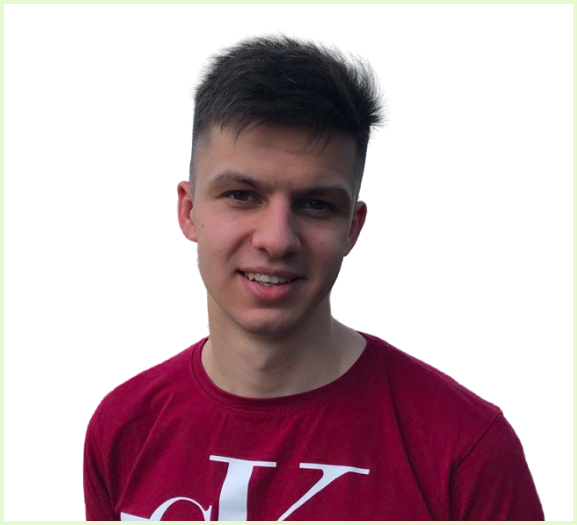
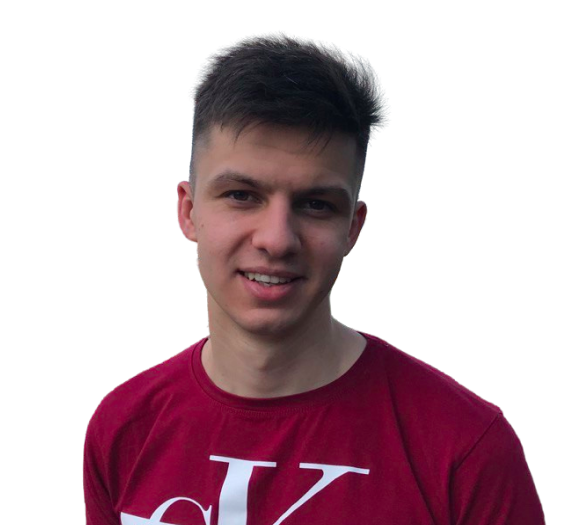
social media refs, left panel update using Grid

Changed region(s): [[0.0, 0.0, 1.0, 1.0]]

diff --git a/pages/index.tsx b/pages/index.tsx
@@ -13,7 +13,7 @@ const IndexPage: React.FC = () => {
 	React.useEffect(() => {
 		const options: TypedOptions = {
 			strings: ["HI! I'M MAXYM RYBAK"],
-			typeSpeed: 60,
+			typeSpeed: 50,
 			startDelay: 2500,
 			showCursor: false,
 		}
@@ -22,8 +22,8 @@ const IndexPage: React.FC = () => {
 		}
 		const options2: TypedOptions = {
 			strings: ['FULL-STACK WEB DEVELOPER'],
-			typeSpeed: 60,
-			startDelay: 4500,
+			typeSpeed: 50,
+			startDelay: 4000,
 			showCursor: false,
 		}
 		if (paragraph2Ref.current) {
@@ -37,20 +37,34 @@ const IndexPage: React.FC = () => {
 			<img src='/images/background.jpg' className={cl.fullScreanImg}></img>
 			<div className={cl.backdrop} />
 			<div className={cl.leftFrame}>
-				{/* <Grid container alignItems='center'> */}
-				{/* <Grid item xs={6}> */}
-				<div style={{ display: 'flex', alignItems: 'center', width: '50vw', height: '100%' }}>
-					<img src='/images/me.png' className={cl.photo}></img>
-					{/* </Grid> */}
-					{/* <Grid item sx={6}> */}
-					<div className={cl.greeting}>
-						<span ref={paragraphRef} id='typed-text'></span>
-						<p ref={paragraph2Ref} id='typed-text2'></p>
-					</div>
+				<img src='/images/chip.png' className={cl.topChip}></img>
+				<div className={cl.leftFrameContent}>
+					<Grid container style={{ paddingBottom: '3em' }}>
+						<Grid item xs={6}>
+							<img src='/images/me.png' className={cl.photo}></img>
+						</Grid>
+						<Grid item xs={2}>
+							<img src='/images/chip.png' className={cl.chip}></img>
+						</Grid>
+						<Grid item xs={4}>
+							<div className={cl.greeting}>
+								<span ref={paragraphRef} id='typed-text2'></span>
+								<p ref={paragraph2Ref} id='typed-text2'></p>
+							</div>
+						</Grid>
+					</Grid>
 				</div>
-
-				{/* </Grid> */}
-				{/* </Grid> */}
+				<div className={cl.socialLinks}>
+					<a href='https://github.com/hurubashi' target='_blank'>
+						<img src='/images/github.svg' className={cl.sociaLinksItem}></img>
+					</a>
+					<a href='https://www.facebook.com/hurubashi/' target='_blank'>
+						<img src='/images/facebook.svg' className={cl.sociaLinksItem}></img>
+					</a>
+					<a href='https://www.linkedin.com/in/maxym-rybak-ba05b7162/' target='_blank'>
+						<img src='/images/linkedin.svg' className={cl.sociaLinksItem}></img>
+					</a>
+				</div>
 			</div>
 			<div className={cl.triangle} />
 		</Layout>

diff --git a/pages/styles.tsx b/pages/styles.tsx
@@ -27,15 +27,48 @@ const styles = makeStyles((theme: Theme) =>
 			zIndex: -1,
 		},
 		greeting: {
-			color: 'white',
+			color: '#EDFFD9',
 			fontSize: '1.5em',
-			width: '10em',
-			margin: 'auto',
-			marginTop: '25vh',
+			width: '100%',
+			paddingLeft: '0.5em',
+			paddingTop: '0.5em',
 		},
 		photo: {
 			width: '100%',
 			height: 'auto',
+			border: '2px solid #EDFFD9',
+			animationName: `$appearingAnimation`,
+			animationDuration: '4s',
+			opacity: 1,
+		},
+		line: {
+			height: '15em',
+			width: '3px',
+			backgroundColor: '#E5FACF',
+			marginBottom: '3em',
+			animationName: `$appearingAnimation`,
+			animationDuration: '4s',
+			opacity: 1,
+		},
+		chip: { width: '100%', animationName: `$appearingAnimation`, animationDuration: '4s', opacity: 1 },
+		topChip: {
+			width: '5em',
+			height: '5em',
+			position: 'absolute',
+			animationName: `$appearingAnimation`,
+			animationDuration: '4s',
+			opacity: 1,
+		},
+		'@keyframes appearingAnimation': {
+			'0%': {
+				opacity: 0,
+			},
+			'50%': {
+				opacity: 0,
+			},
+			'100%': {
+				opacity: 1,
+			},
 		},
 		leftFrame: {
 			position: 'fixed',
@@ -48,6 +81,7 @@ const styles = makeStyles((theme: Theme) =>
 			animationName: `$leftFrameAnimation`,
 			animationDuration: '3s',
 		},
+		leftFrameContent: { display: 'flex', alignItems: 'center', width: '50vw', height: '100%' },
 		'@keyframes leftFrameAnimation': {
 			'0%': {
 				width: '100vw',
@@ -91,6 +125,23 @@ const styles = makeStyles((theme: Theme) =>
 			'100%': {
 				left: '40vw',
 			},
+		},
+		socialLinks: {
+			position: 'fixed',
+			top: 0,
+			right: 0,
+			height: '100vh',
+			width: '10em',
+			display: 'flex',
+			flexFlow: 'column',
+			justifyContent: 'center',
+			paddingBottom: '10vh',
+		},
+		sociaLinksItem: {
+			padding: '1em',
+			width: '5em',
+			animationName: `$appearingAnimation`,
+			animationDuration: '3s',
 		},
 	}),
 )

diff --git a/components/styles.tsx b/components/styles.tsx
@@ -11,11 +11,11 @@ const styles = makeStyles((theme: Theme) =>
 			margin: '0.5em',
 			textDecoration: 'none',
 			padding: '0.2em',
-			color: 'white',
+			color: '#EDFFD9',
 			textTransform: 'uppercase',
 		},
 		active: {
-			borderBottom: '2px solid white',
+			borderBottom: '2px solid #EDFFD9',
 		},
 	}),
 )
